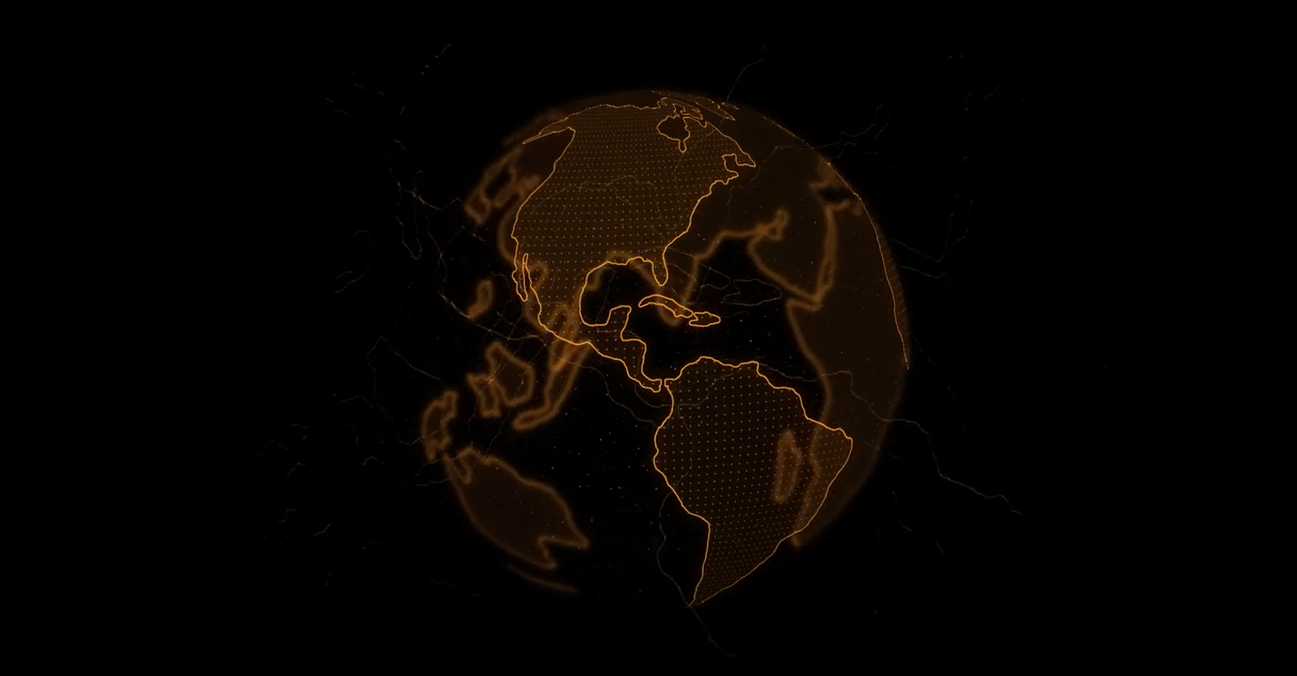
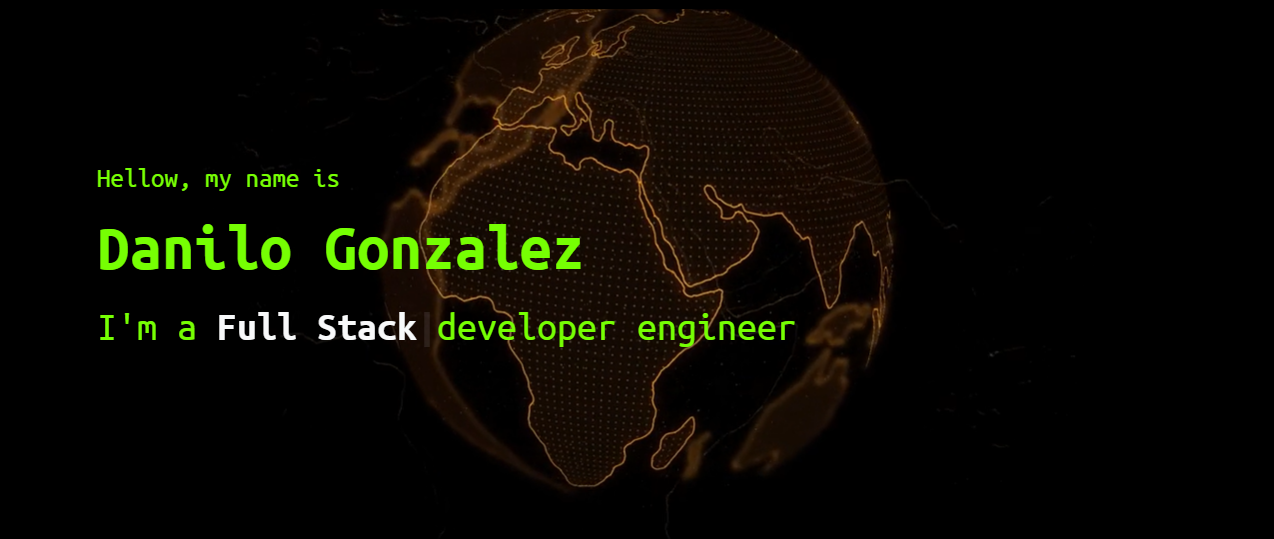
actualizacion img

Changed region(s): [[0.0612, 0.0, 0.7041, 0.9202], [0.0612, 0.2968, 0.2755, 0.3562], [0.6735, 0.3859, 0.7041, 0.475]]

diff --git a/README.md b/README.md
@@ -1,5 +1,5 @@
 <p align="center">
-  <img src="https://github.com/doglez/doglez/blob/main/src/assets/video/technologicalEarth.mp4" alt="Hi, I'm Danilo Gonzalez Ardon 👋 I'm a 🚀 French developer 🚀 I ❤ Happy Hardcore ❤">
+  <img src="https://github.com/doglez/doglez/blob/main/src/assets/img/world.png" alt="https://doglez.com">
 </p>
 
 <!--
